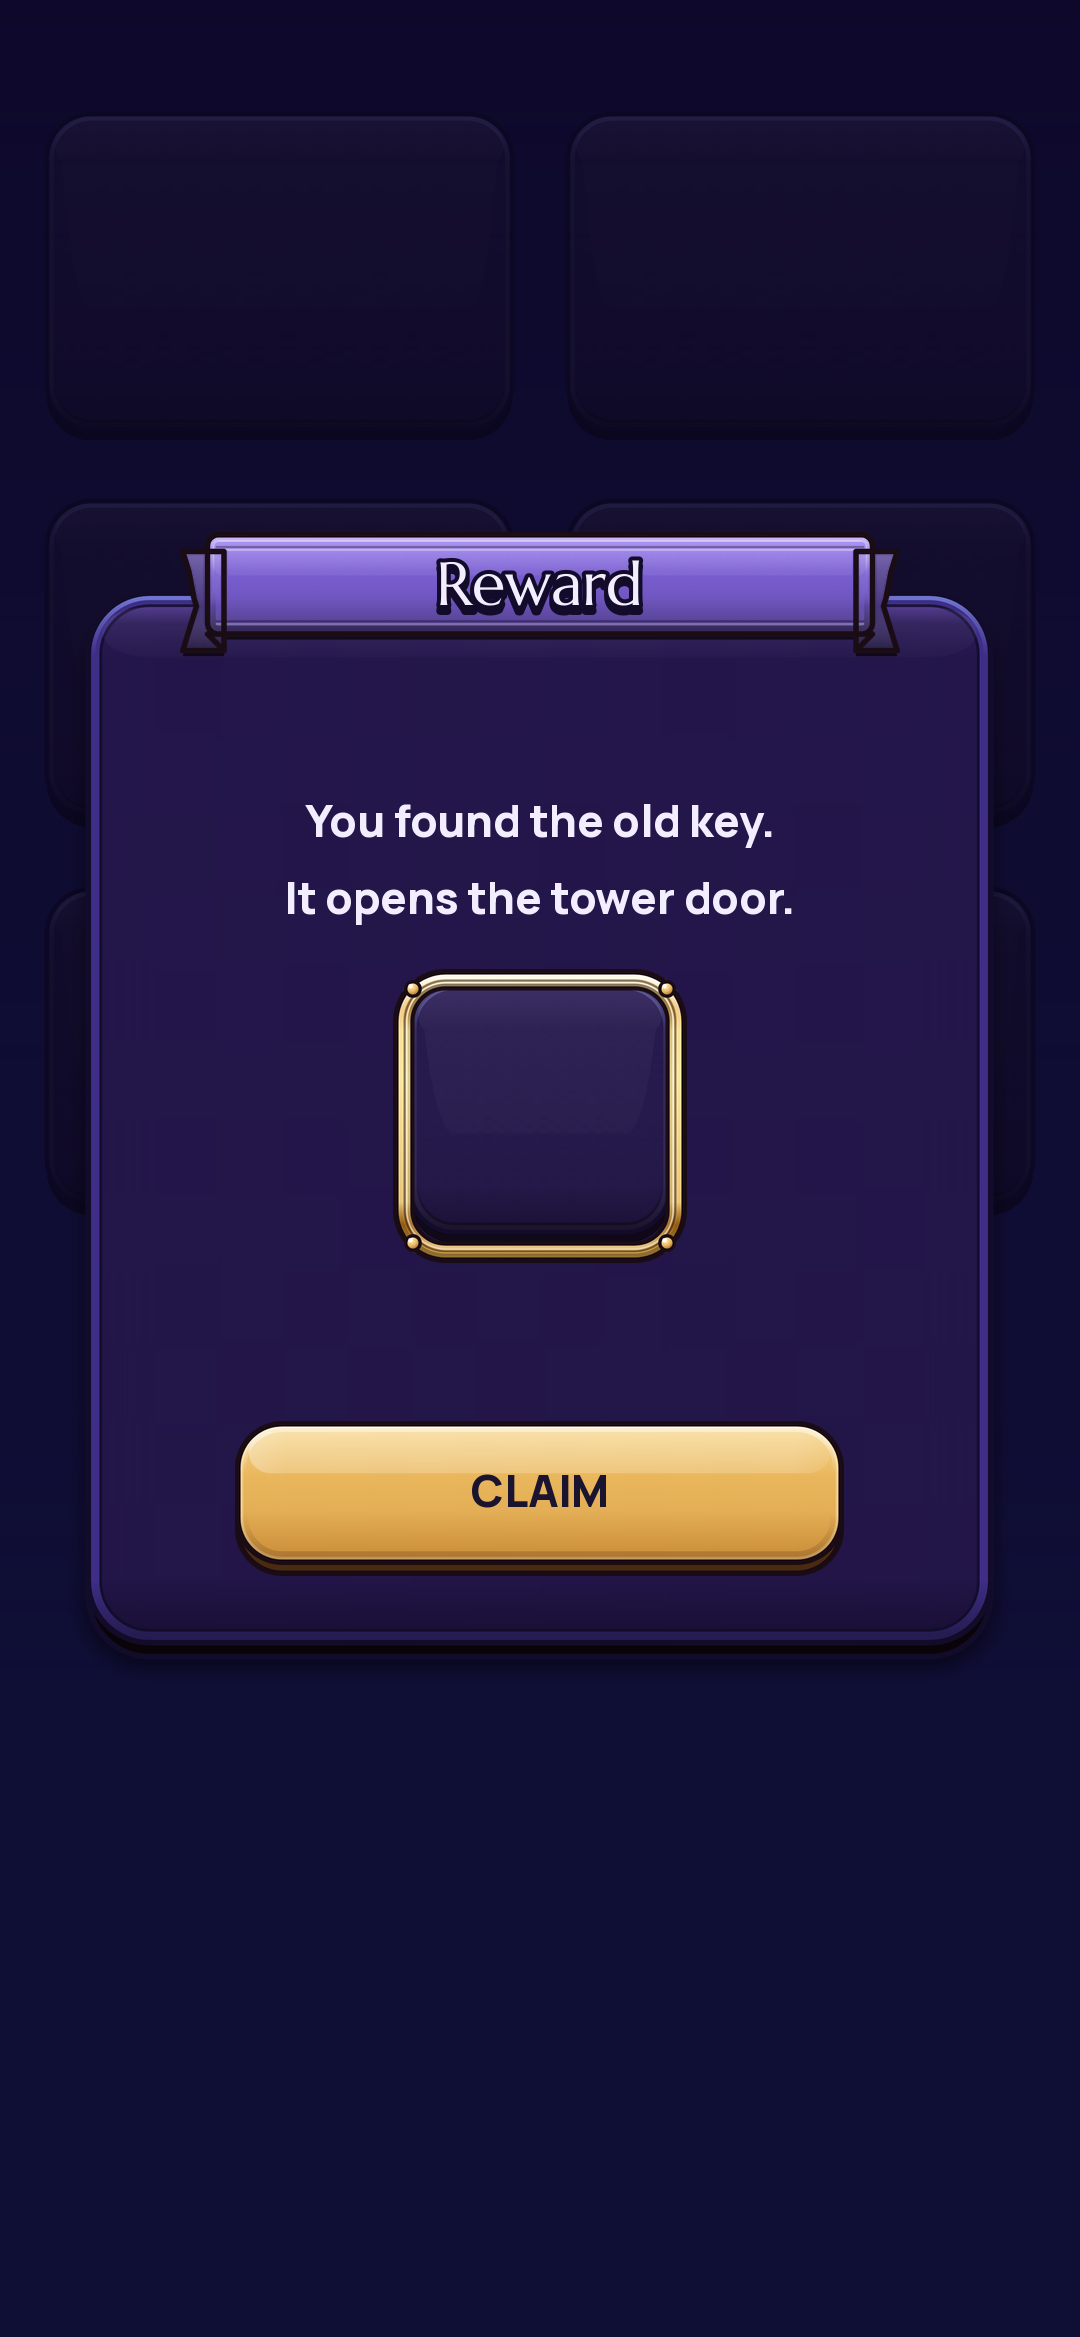
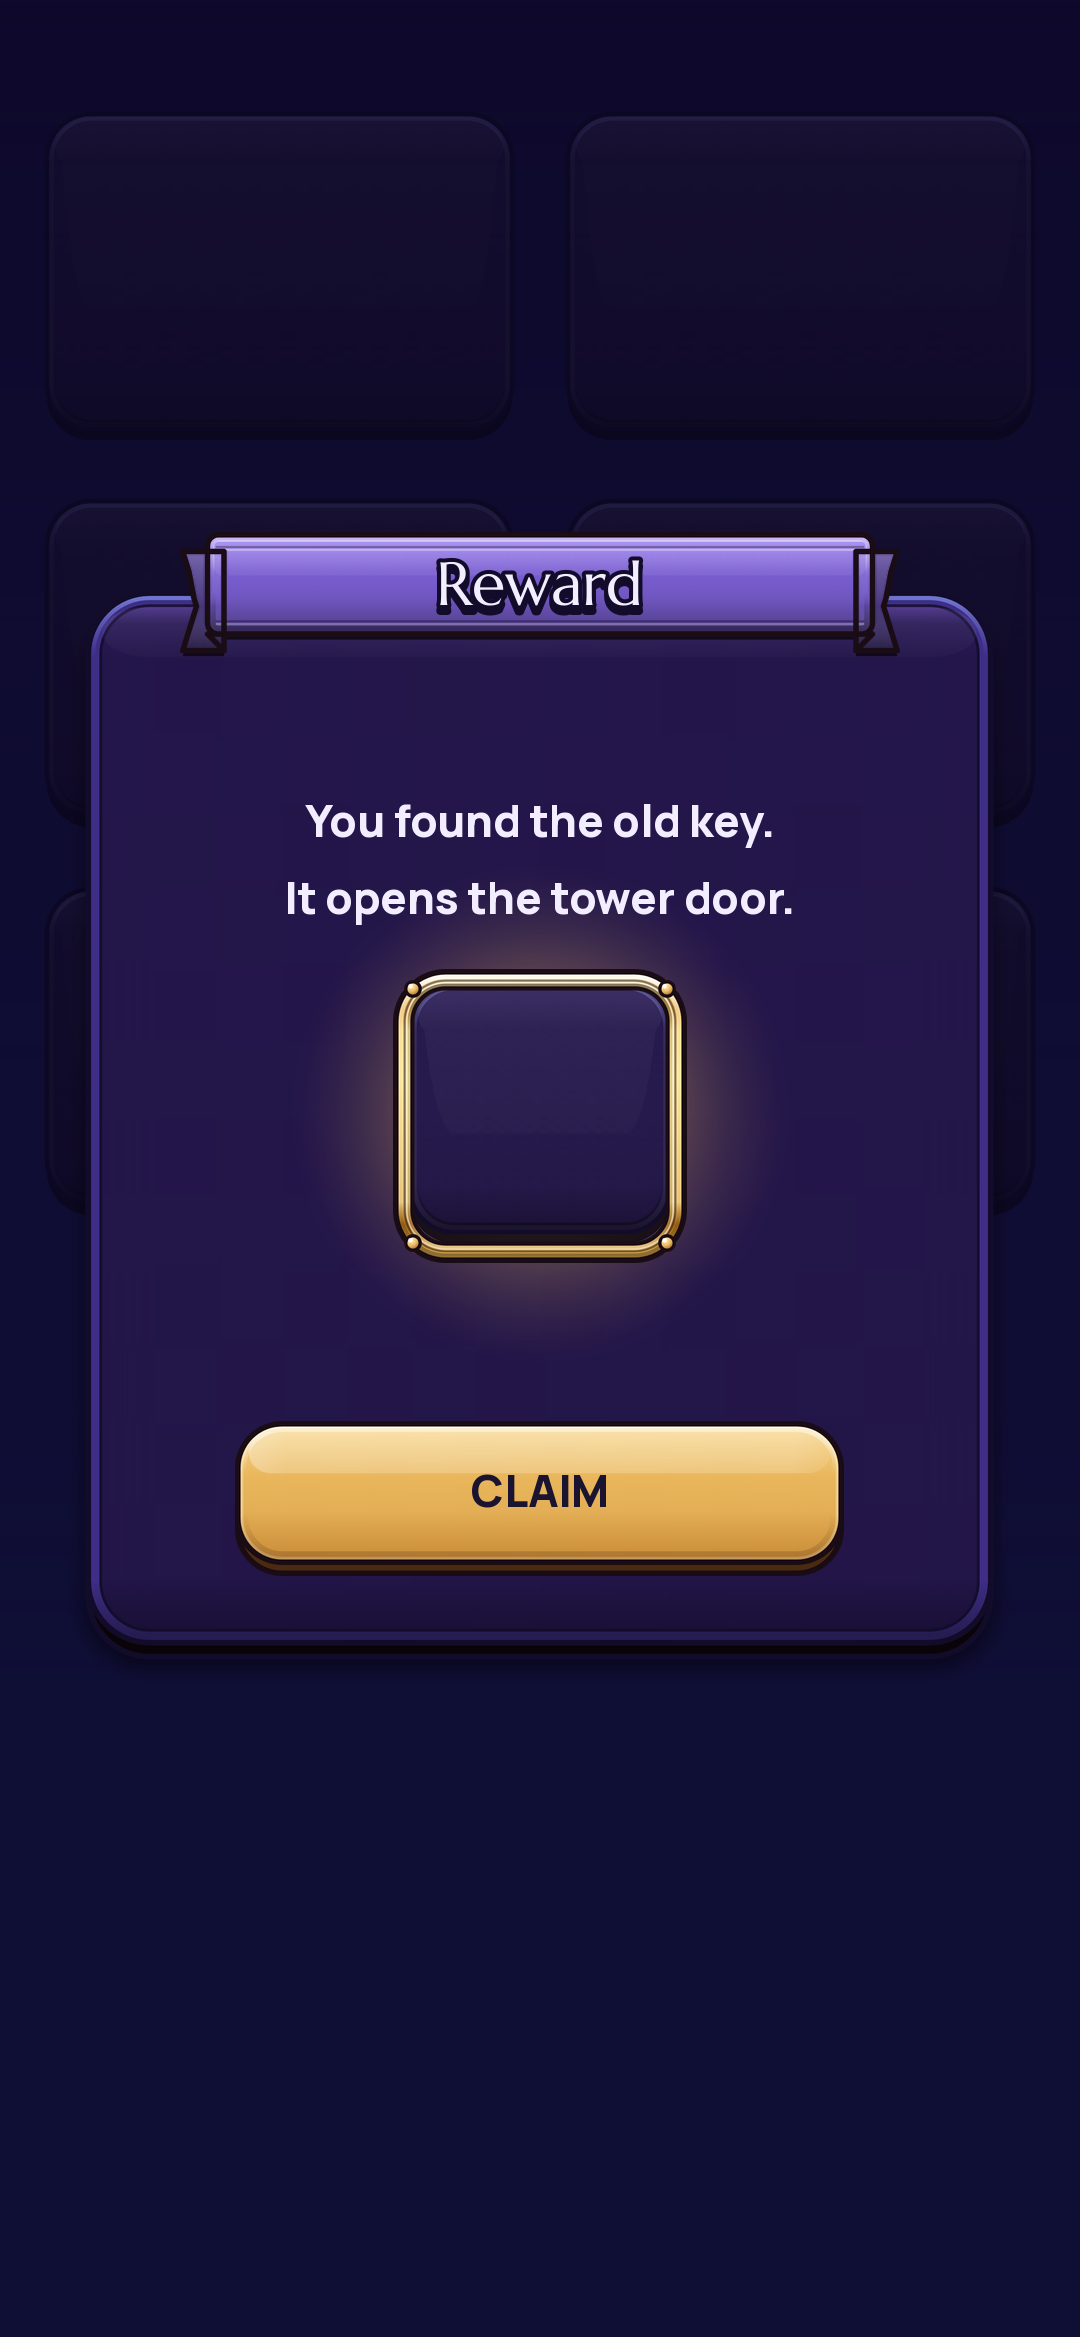
AIA: kit batch 2a — popup reward glow in the proof, handoff and self-score
Claude-Session: https://claude.ai/code/session_01SNkKxmbXiobGvGu7DHZRJZ

diff --git a/art/ui/kit_build/proof_2a.py b/art/ui/kit_build/proof_2a.py
@@ -182,9 +182,20 @@ def popup_still(hc, atlas):
     b.put(atlas.draw("ribbon__frame__normal", 260, 46), r[0], r[1])
     b.say("popup title", [r[0] + 20, r[1] + 1, r[2] - 40, 36], "Reward", 22, white, outline, drop=True,
           display=True)
+    # The rank frame of the reward in the middle, on a glow (rubric 13: a
+    # reward sits on a glow). The sunburst is K39's, a later batch: the
+    # proof draws a plain radial glow of `gold` in its place.
+    if not hc:
+        W, H = round(FRAME[0] * PX), round(FRAME[1] * PX)
+        yy, xx = np.mgrid[0:H, 0:W]
+        cx, cy = FRAME[0] / 2 * PX, (fy + 188) * PX
+        dist = np.hypot(xx - cx, yy - cy) / (92 * PX)
+        glow = np.zeros((H, W, 4), dtype=np.uint8)
+        glow[..., :3] = rgb("gold")
+        glow[..., 3] = (np.clip(1 - dist, 0, 1) ** 1.5 * 220).astype(np.uint8)
+        b.overlay(Image.fromarray(glow, "RGBA"))
     for i, line in enumerate(["You found the old key.", "It opens the tower door."]):
         b.say("popup body %d" % i, [fx + 20, fy + 70 + i * 28, fw - 40, 24], line, 16, white)
-    # The rank frame of the reward in the middle.
     b.put(atlas.draw("panel_dark__box__normal", 96, 96), FRAME[0] / 2 - 48, fy + 140)
     b.put(atlas.draw("frame_gold__box__normal", 106, 106), FRAME[0] / 2 - 53, fy + 136)
     br = b.put(atlas.draw("button_primary__box__normal", 220, 56), (FRAME[0] - 220) / 2, fy + fh - 80,

diff --git a/docs/progress/AIA.md b/docs/progress/AIA.md
@@ -1,11 +1,11 @@
 # AIA AI UI artist: progress
 
-- Status: Green: pre-check PASS at 3a04e828 (2026-11-04T20:21:18Z); P1-AIA-kit-3 is ready.
-- Progress: 5 tasks merged, P0-AIA-keyframes-3, P0-AIA-board-4, P1-AIA-kit-1 and P1-AIA-kit-2 ready, P1-AIA-kit-3 ready; 0 items passed by the gate.
-- Done: P1-AIA-kit-3: kit batch 1c, the baked numerals: `num_<finish>_<glyph>` in four finishes (gold, white, timer, timer_red), each with the ten tabular digits, the marks both launch languages need (comma, period, colon, slash, plus, minus, percent, times, question) and a space, each with a fixed advance and its high-contrast twin, baked into a second atlas page (`client/ui/art/kit_2.webp`, `kit_2_hc.webp`).
-- Next: wait for the lead (gate on the numerals sheet at phone size, 100% and 200% text).
+- Status: Pre-check running on the batch 2a commit; P1-AIA-kit-4 is working.
+- Progress: 5 tasks merged, P0-AIA-keyframes-3, P0-AIA-board-4, P1-AIA-kit-1, P1-AIA-kit-2 and P1-AIA-kit-3 ready, P1-AIA-kit-4 working; 0 items passed by the gate.
+- Done: P1-AIA-kit-4: kit batch 2a: panel_parchment (normal, locked, done, the parchment sheet), sheet with its grab handles, popup, the four rank frames (oak, silver, gold, prismatic; normal and locked), header with its name plate, and the ribbon (neutral and tinted per school, its untinted frame, the violet chapter ribbon), each with its high-contrast twin.
+- Next: wait for the lead (gate "Kit art" on the batch 2a sheet at phone size).
 - Blocked by: none.
-- Owner decision needed: none. Requests AIA-R9 to AIA-R15 to K1 are in the status file, each with a default.
+- Owner decision needed: none. Requests AIA-R9 to AIA-R16 to K1 are in the status file, each with a default.
 
 | Deliverable | Weight (h) | Status | Evidence |
 |---|---:|---|---|
@@ -18,25 +18,28 @@
 | P0-AIA-board-4: the board's words for the revised tokens (K1-R6) | 1 | Ready at b83a0b4d (pre-check PASS) | `node art/ui/board/check_board.mjs` and `--revised` (section 2.1's backdrop #171046 to #2C3AA8, #FF9AAA, #3FBF7F tried over `tokens.css`): 378 words pass in both modes, 8 icons keep the outline rule, 16 controls pass value-steps; `--self-test`: each planted fault fails, including a regular-weight caption on the revised backdrop; `board.png`, `board_hc.png` |
 | P1-AIA-kit-1: kit art batch 1a | 4 | Ready at c8915bc3 (pre-check PASS) | `node tools/ui_bake/bake.js --check`: kit 28 pieces, 2048 x 2048, 446350 bytes for both atlases. `python3 art/ui/kit_build/proof_kit.py --check`: 280 results, 0 fail: 152 value-steps (76 a mode; worst ΔL* 21.9 normal, 23.8 high contrast, both `button_danger__box__pressed` on the backdrop) and 128 label contrasts (worst 4.78:1 normal, tertiary on the backdrop; 5.81:1 high contrast). Contact sheets `art/ui/kit_build/proof/contact_normal.png`, `contact_hc.png` (sheet.py contact, 60 and 120 points). |
 | P1-AIA-kit-2: kit art batch 1b | 4 | Ready at fccd4b89 (pre-check PASS) | `node tools/ui_bake/bake.js --check`: kit 51 pieces, 2048 x 2048, 797984 bytes for both atlases. `python3 art/ui/kit_build/proof_1b.py --check`: 142 results, 0 fail: 92 value-steps (46 a mode; worst ΔL* 23.0 normal, 26.1 high contrast, both the pressed disc on the backdrop) and 50 label contrasts (worst 5.53:1 normal, the violet tag on the dark card; 7.08:1 high contrast). `proof_kit.py --check` (batch 1a) still 280 results, 0 fail. Contact sheets `art/ui/kit_build/proof_1b/contact_1b_normal.png`, `contact_1b_hc.png` (60 and 120 points); stills `controls_<mode>.png`, `surfaces_<mode>.png`. |
-
 | P1-AIA-kit-3: kit art batch 1c, the numerals | 3 | Ready at 3a04e828 (pre-check PASS) | `node tools/ui_bake/bake.js --check`: kit 131 pieces on 2 pages (2048 x 2048 and 2048 x 1024; 24 MiB in memory, report.md section 10.1's budget), 1041770 bytes for both atlases. `python3 art/ui/kit_build/proof_num.py --check`: 24 results, 0 fail: tabular (one digit advance and one height a finish), outline (half the stroke shows: 3.5 pt at 28, 2.75 pt at 22, over max(1.5 pt, 12%)), and fill against outline at the worst fill pixel (worst 9.45:1 / Lc 63.2 normal, timer_red; 10.45:1 / Lc 63.7 high contrast). `proof_kit.py --check` 280 and `proof_1b.py --check` 142 results, 0 fail. Stills `art/ui/kit_build/proof_num/numerals_<mode>_<100,200>_<en,pt_br>.png`; contact sheets `contact_num_normal.png`, `contact_num_hc.png`. |
+| P1-AIA-kit-4: kit art batch 2a | 3 | Working (pre-check pending) | `node tools/ui_bake/bake.js --check`: kit 152 pieces on 2 pages, 1397334 bytes for both atlases. `python3 art/ui/kit_build/proof_2a.py --check`: 58 results, 0 fail: 10 value-steps (5 a mode; worst ΔL* 62.7 normal, 75.3 high contrast, the popup's button) and 48 word checks at 4.5:1 and APCA Lc 60 (worst 9.31:1 / Lc 66.3 normal, 12.51:1 / Lc 74.3 high contrast, the popup button's words). `proof_kit.py --check` 280, `proof_1b.py --check` 142 and `proof_num.py --check` 24 results, 0 fail. Stills `art/ui/kit_build/proof_2a/{panels,popup,sheets}_<mode>.png`; contact sheets `contact_2a_normal.png`, `contact_2a_hc.png` (60 and 120 points). |
 
 ## Handoff
-- M1 (acked 2026-11-04): scored against `docs/art/ui-quality/gate/rubric.md` below, from the proof stills at full size.
-- Last verified commit: 3a04e828 (pre-check green, 2026-11-04T20:21:18Z).
-- Done (P1-AIA-kit-3):
-  - `art/ui/kit_build/kit_num.py` (called from `build_kit.py`) writes 80 sources, `art/ui/kit/num_<finish>/<glyph>.svg`: gold 28 pt (currency, rewards, the loot count), white 22 pt (counts on cards and badges), timer 28 pt (the heist clock) and timer_red 28 pt (its last seconds), each at its 100% size; the bake draws them at 200%.
-  - The face is Manrope 800 with tabular figures (§21.8's face for every number that changes, D4 (b), report.md section 10.4), not Lilita One as kit-spec.md section 2.2's T3 row still says (AIA-R15).
-  - Each glyph: a gradient fill lit from the cap height to the baseline, an ink outline (paint-order stroke, half of it showing), a hard ink drop 0.08 of the size straight down, and an unstroked second fill pass that covers the variable font's overlap seams. High contrast: a flat fill (paper, `gold_hc`, #FF9AAA), the high-contrast ink outline and drop, the same geometry.
-  - Advances: a digit 0.72 of the size (20 pt gold and timer, 16 pt white); a mark its ink plus 0.11 of the size each side, rounded to a whole point; the space 0.35 of the size. A piece is its advance cell plus 1 pt each side, all of a finish one height, so a number is set by drawing each piece at pen - 1 pt and moving the pen by `advance` (AIA-R15). Box sizes are whole points because the bake clips in points.
-  - New colours, each in `KIT_NUM` with what it comes from: `num_timer_bottom` #D6E4F2, `num_red_top` #FFE4E8, `num_red_mid` #FFBFC9. timer_red's foot is #FF9AAA (red words on dark, §21.8).
-  - The atlas now has two pages; batch 1a/1b pieces were repacked across them by the bake. `proof_kit.py`'s `Atlas` reads `atlas.pages` and each piece's `page`, and `proof_1b.py` uses it.
-  - `art/ui/kit_build/proof_num.py` sets en (1,234 / 12.5) and pt_br (1.234 / 12,5) numbers from the pieces at 390 pt wide, 100% and 200% text, both modes, on the backdrop, dark card, glass and parchment; it runs the checks above and makes the contact sheets. `proof_num/tiles/` is regenerated and not committed.
+- M1 (acked 2026-11-04): scored against `docs/art/ui-quality/gate/rubric.md` below, from reduced previews of the proof stills.
+- Last verified commit: 3a04e828 (pre-check green, 2026-11-04T20:21:18Z); the batch 2a commit's pre-check is running.
+- Done (P1-AIA-kit-4):
+  - `art/ui/kit_build/kit_2a.py` (called from `build_kit.py`) writes 21 sources under `art/ui/kit/`: `panel_parchment/{box,parchment_done,sheet_parchment}.svg`, `sheet/{box,handle,handle_parchment}.svg`, `popup/box.svg`, `frame_{oak,silver,gold,prismatic}/box.svg`, `header/{box,name_plate}.svg`, `ribbon/{box,frame,chapter}.svg`. States follow kit-spec.md section 3: K13 and K14 normal and locked (selected is the existing `selected__rim` over them); K16 to K19 normal (reduced motion changes no art).
+  - Parchment panel (E2): a tan lip (`parchment_lip`, not black), the paper gradient, a deckle line, a white lit top and an inner ink hairline. Locked takes the locked teal with hatching masked to the four corner cells. Done is the same paper with a green seal and an ink tick in the top-right corner cell.
+  - Sheets (E3): rounded top, flush foot, a blurred shadow above the top edge; dark and parchment. The grab handles are their own 42 x 9 pt sprites, since a 9-slice cannot centre them (AIA-R16).
+  - Popup (E3): the lit card gradient, a 3 pt violet bevel ring (`popup_rim`), the drop_l lip, a soft shadow over the scrim, an inner hairline and a lit band; its title is a ribbon across its top edge.
+  - Rank frames: a 6 pt ring with a hollow middle drawn over a portrait. Each rank also differs in shape, not only colour, so it reads in grey and for colour-blind players: oak has concentric grain; silver adds a groove; gold adds the groove and four studs; prismatic adds the groove, a diagonal hue gradient, a pearl sheen and four gems. Locked turns the metal locked teal, keeping each rank's shape cues.
+  - Header: a band flush to the top, rounded at the foot with a drop_m lip; the name plate is a leather E1 plate.
+  - Ribbon: a 32 pt band with offset swallowtail tails and folds. `ribbon__box` is neutral and tinted per school (data-tint); `ribbon__frame`, the gloss, top light, groove hem and ink edges, is drawn over it untinted, as disc_school. `ribbon__chapter` is the untinted violet chapter ribbon.
+  - New colours, each in `KIT_2A` with what it comes from (written to `art/ui/palette.json`).
+  - `art/ui/kit_build/proof_2a.py` draws the stills from the baked atlas at 390 pt wide in both modes and runs value-steps on the interactive pieces and word contrast (4.5:1 and Lc 60) on every word. The reward's glow behind the gold frame in the popup still is drawn by the proof: the sunburst is K39's, a later batch. `proof_2a/tiles/` is regenerated and not committed.
 - Self-score against the rubric (statements, not a rating):
-  - 2 Display type: every piece has an ink outline all round, 3.5 pt visible at 28 pt and 2.75 pt at 22 pt (12.5% of the size; the rule asks 12% or 1.5 pt), a hard drop and a gradient fill, as the clear pass's clock "2:18". The face is Manrope 800 tabular, so a changing number keeps its width (one digit advance a finish). The smallest finish is 22 pt at 100%. One treatment across all four finishes: the same stroke ratio, drop ratio and light.
-  - 8 Colour roles and value: gold only for currency and rewards; red only for the clock's alarm seconds, its darkest pixel #FF9AAA; the white and timer finishes are paper to lilac and paper to cool white, so the clock never borrows the time school's cyan. Every fill pixel is 4.5:1 and Lc 60 or more against its outline in both modes (measured two pixels inside the fill, diagonals too; worst Lc 63.2 normal, 63.7 high contrast). Colours come from the palette (`art/ui/palette.json`'s `color` and `kit` sections).
-  - Risks: tabular figures leave a wide cell round a 1 ("12:05"), as tabular figures do; at 200% the proof's ground label crosses the first row's last digits on the parchment band (the label, not the art).
-- Known limits: KitSkin does not set numbers from the pieces yet (AIA-R15); disc_school is still in `art/ui/kit_next/` though the atlas now has pages (AIA-R13, outside this task).
+  - 1 Layered materials: every surface has a lip below, a gradient body, a lit top edge and an ink edge; the popup adds a bevel ring and lit band; the frames carry grooves, studs or gems. Risks: the plain parchment panel's face is quiet at phone size (paper, deckle and hairline only); the sheet bodies are large flat-ish areas, lit mostly at the top edge.
+  - 2 Display type: the header title, the chapter and school ribbons and the popup title are Marcellus with a 1.5 pt ink outline and a hard drop (T2); sheet titles on the dark sheet are T2, on parchment plain ink (T0). Every word passes 4.5:1 and Lc 60 against its outline or face.
+  - 8 Colour roles and value: gold is a material only (frame_gold, its studs) and the primary button; the school colours appear only as the ribbon's tint; violet is the chapter ribbon and popup rim; green only marks done; locked is the locked teal throughout. Every interactive piece steps at least ΔL* 62.7 from its ground. Risk: kit-2's note that locked teal sits near the time school's cyan still applies to the locked frames.
+  - 13 Light behind UI: every piece is lit from the top with its lip or shadow below; the popup sits on the scrim with a shadow; the reward in the popup still sits on a glow (drawn by the proof, see above).
+- Known limits: KitSkin does not draw the new pieces yet (AIA-R16); disc_school is still in `art/ui/kit_next/` (AIA-R13).
 - Half done: none.
 - Open hypotheses: none.
 - Next step: none; wait for the lead.
@@ -64,3 +67,6 @@
 - 2026-11-04 A dark currency pill: ΔL* 0 to 12 on the dark grounds, so value-steps failed. A light moon face with an ink rim passes.
 - 2026-11-04 Black HC outlines on the locked disc: with the black lip and lock, more than half the box was black and its median matched the backdrop. A lavender `edge_hc` outline passes.
 - 2026-11-04 The tokens' locked gradient as it is: on the lit foot of the night backdrop it is 1.8 value steps off (ΔL* 17.9). Lifted a step (#4A9AA0 to #30707A) it passes.
+- 2026-11-04 The rank frame's inner ring path with its V and H commands out of order: the hole did not cut, the ring filled solid and the stretched middle showed a diagonal. Reordered, the evenodd hole cuts.
+- 2026-11-04 The parchment's locked hatching masked to the end caps: on a tall panel the caps stretch vertically and the stripes kinked. Masked to the four corner cells they hold.
+- 2026-11-04 The done mark as a dog-ear between the rounded corner and a diagonal: a 5 pt sliver too thin to read. A round seal inside the corner cell reads; at 7 pt radius it crossed the cell edge and smeared, at 6 pt it fits.
